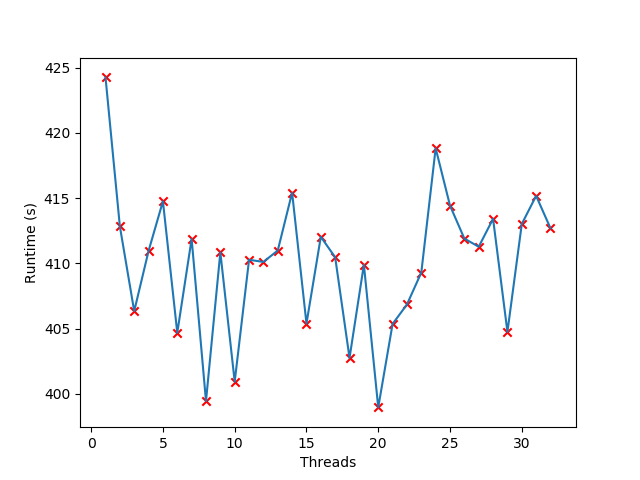
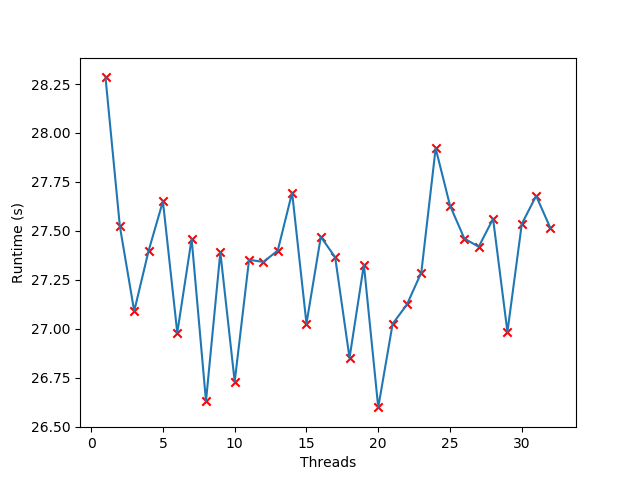
Divide the results by 15 to get the average runtime

diff --git a/assets/src/week3/performance-plot.py b/assets/src/week3/performance-plot.py
@@ -35,8 +35,9 @@ data = """
 415.18087553977966
 412.6926236152649
 """.strip().splitlines()
-plt.plot(range(1,33),map(float, data))
-plt.scatter(range(1,33), map(float, data), marker="x", color="red")
+data = map(lambda x: float(x)/15, data)
+plt.plot(range(1,33),data)
+plt.scatter(range(1,33), data, marker="x", color="red")
 plt.xlabel("Threads")
 plt.ylabel("Runtime (s)")
 plt.show()
@@ -45,5 +46,5 @@ plt.figure()
 plt.title("Boxplot")
 plt.xlabel('Runtime (s)')
 plt.ylabel('Amount of occurences')
-plt.boxplot(map(float, data), 0, 'rs', 0, 0.75)
+plt.boxplot(data, 0, 'rs', 0, 0.75)
 plt.show()
